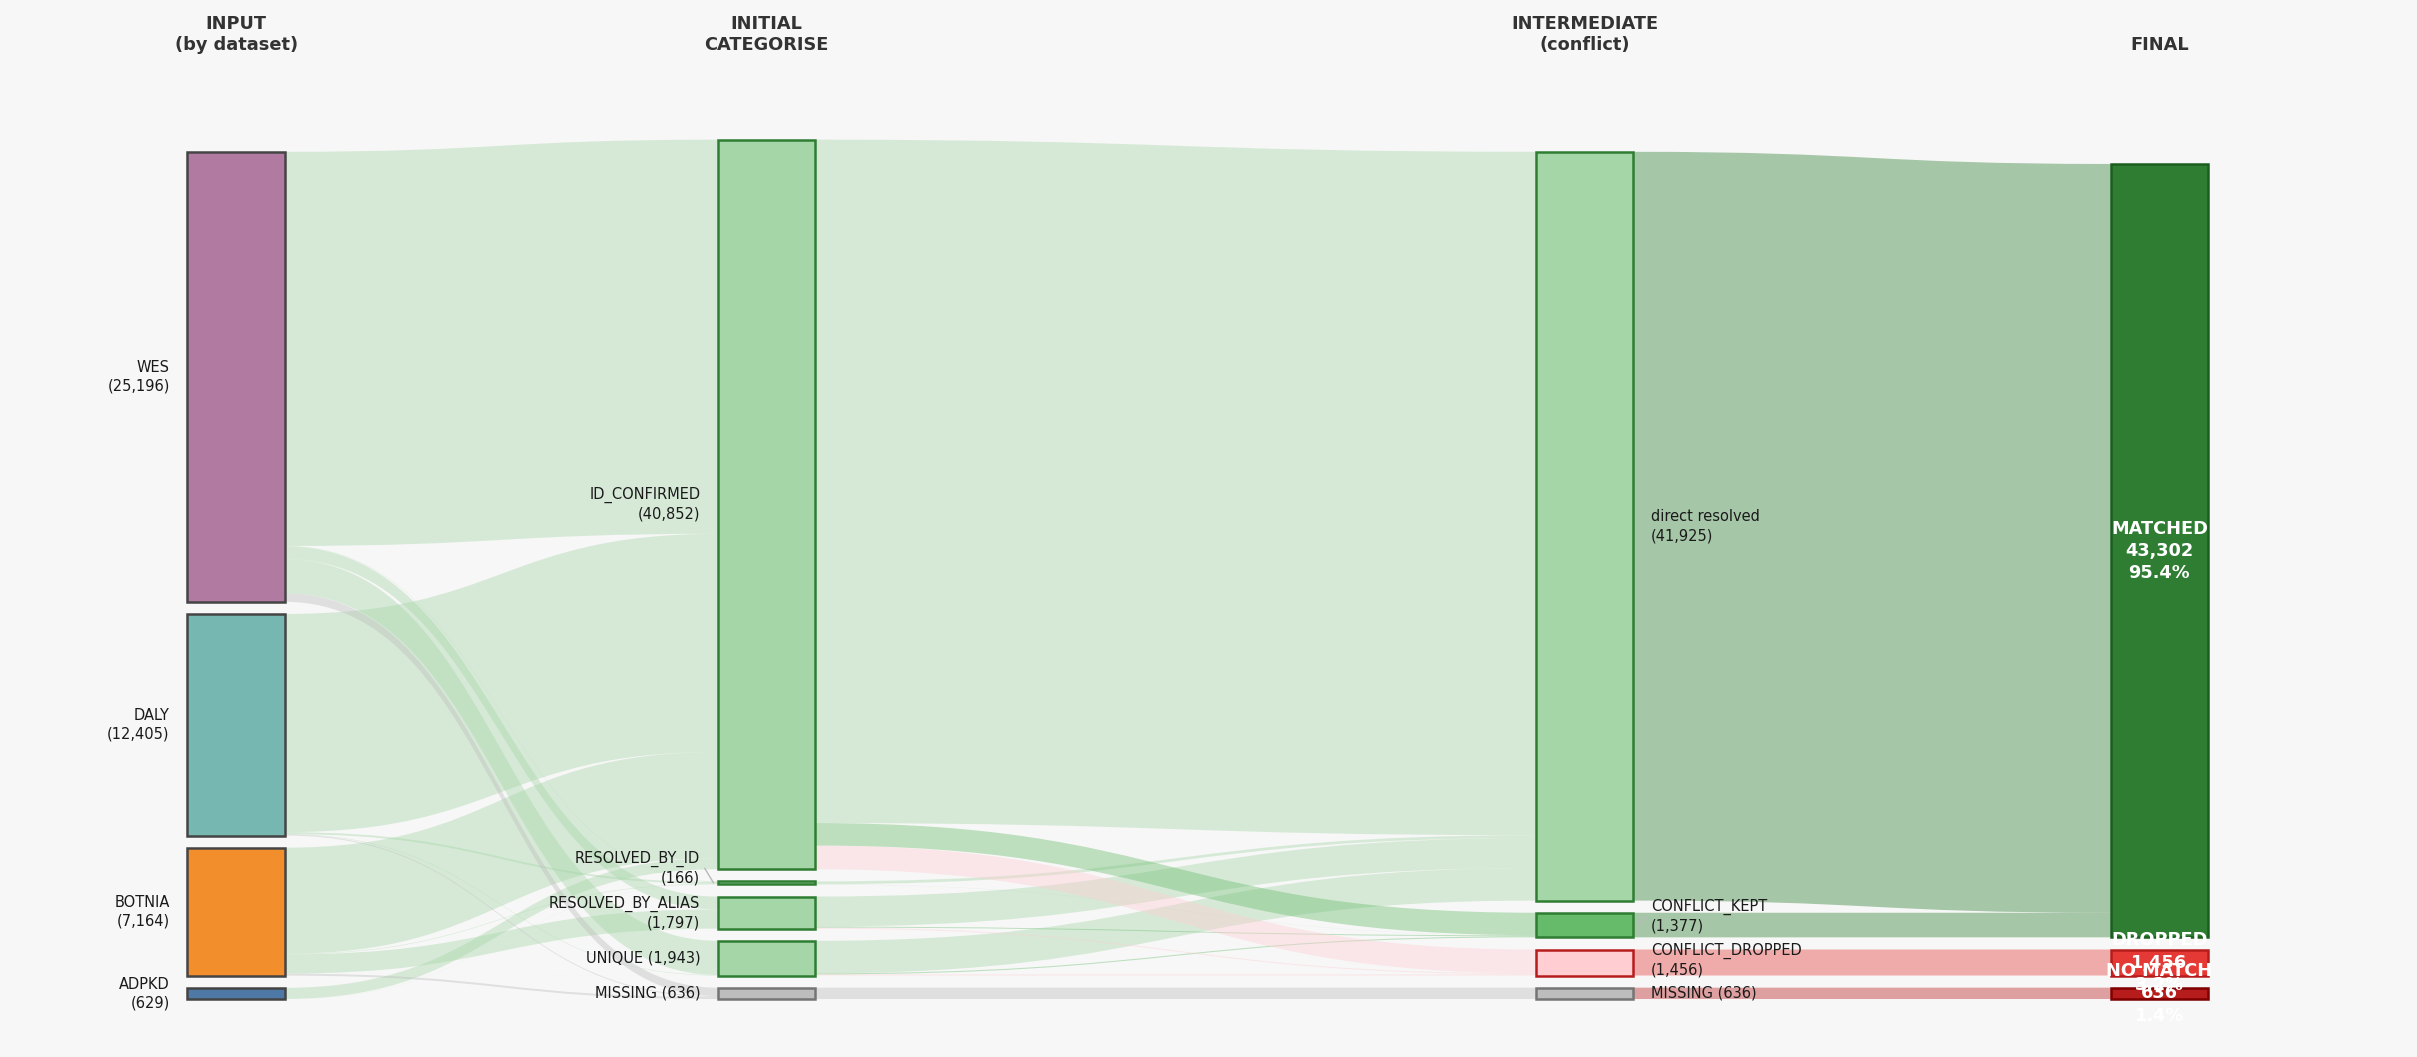
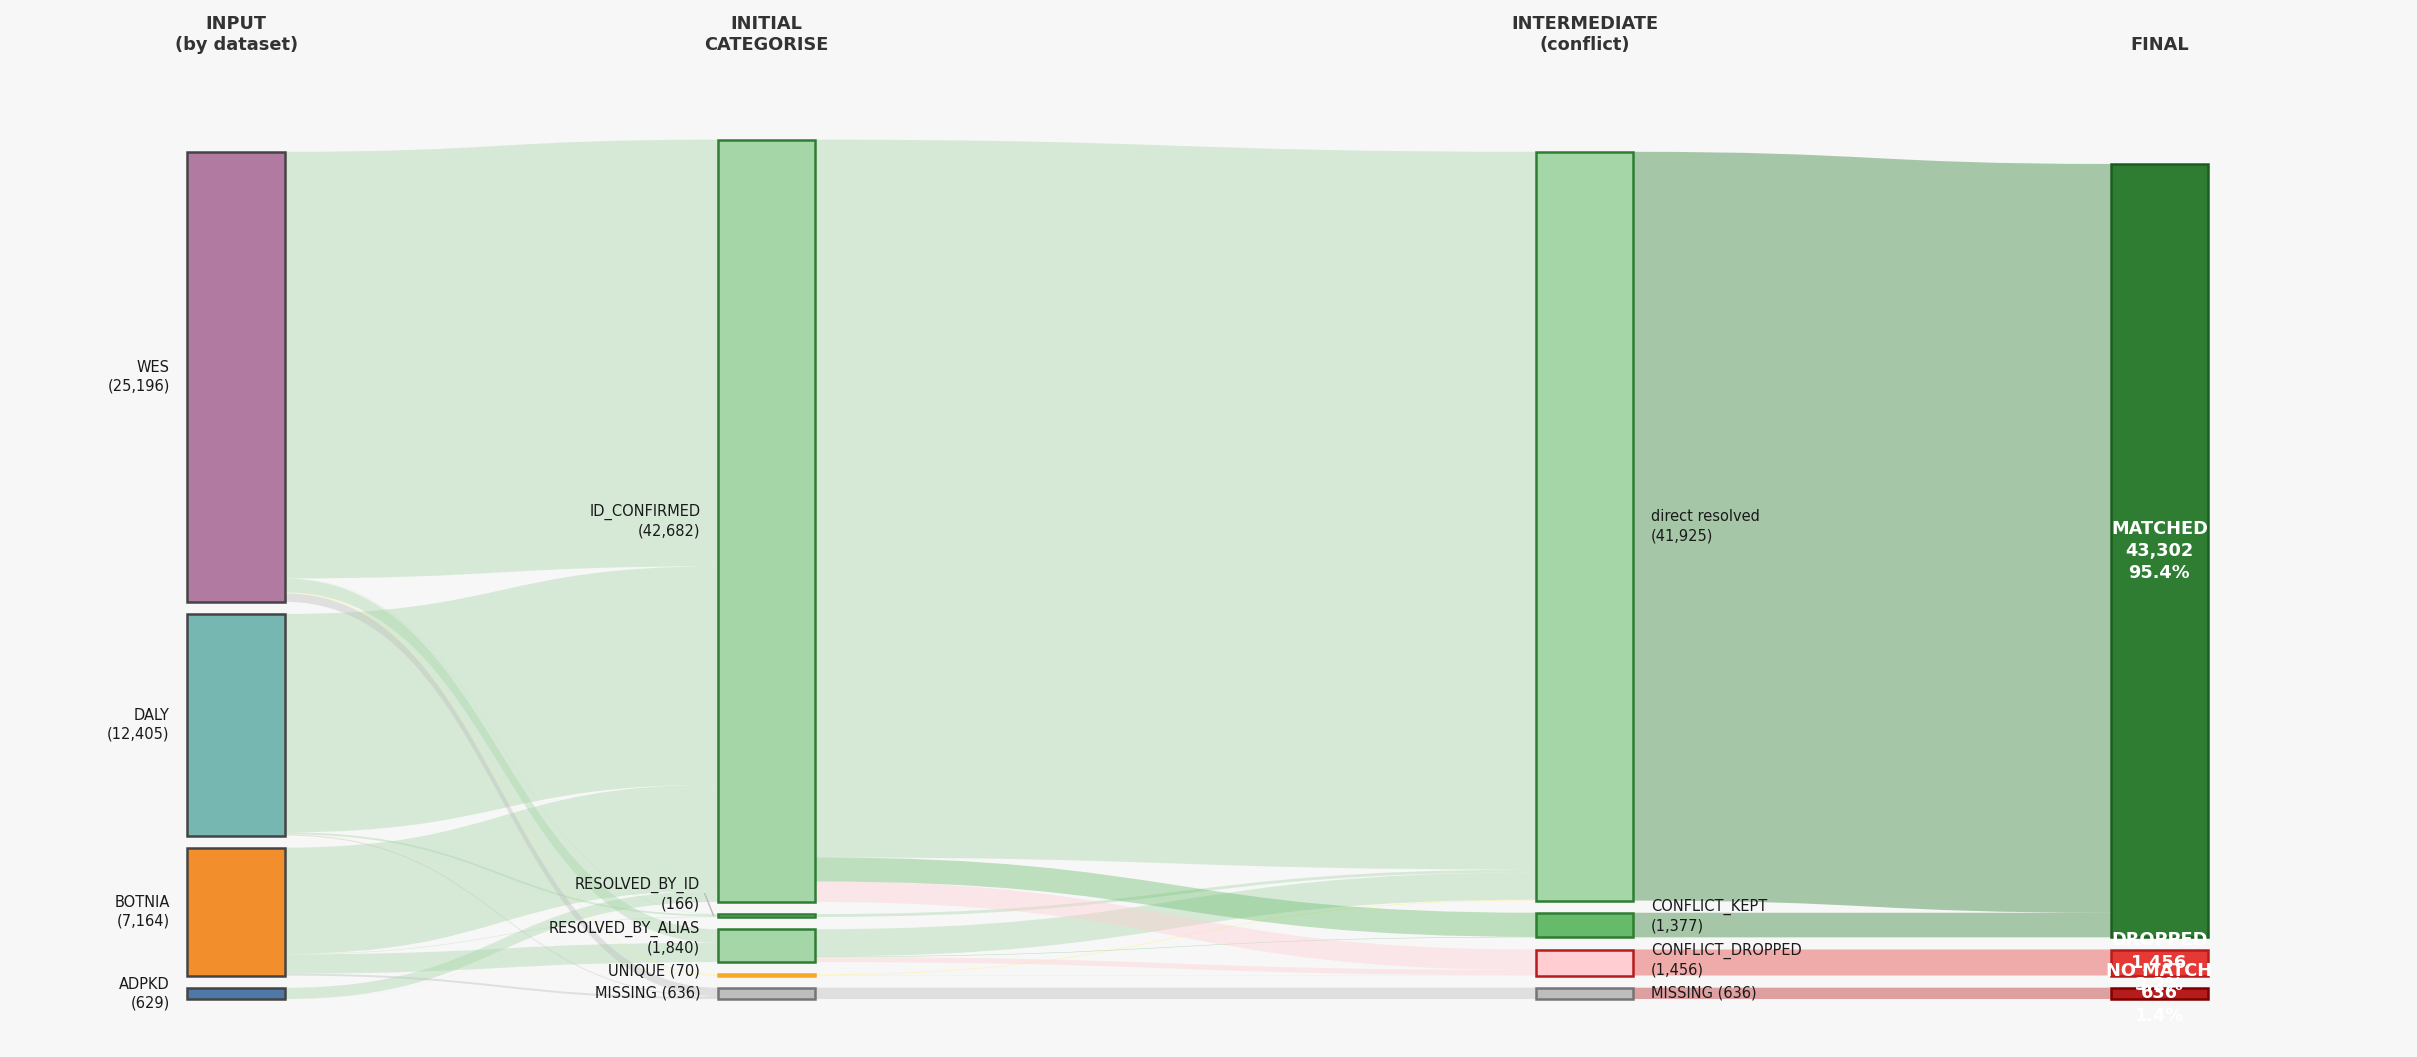
fixed labelling of renaming/mapping

Changed region(s): [[0.1552, 0.7805, 0.5896, 0.9366], [0.1241, 0.4371, 0.3103, 0.5932], [0.1552, 0.7493, 0.2172, 0.8117]]

diff --git a/scripts/resolve_mapping.py b/scripts/resolve_mapping.py
@@ -20,7 +20,7 @@ TEST_ALIASES = TEST_DIR / "aliases.tsv"
 
 RESOLVED = {"ID_CONFIRMED","RESOLVED_BY_ID","RESOLVED_BY_ALIAS","UNIQUE"}
 CONFLICT_PRIORITY = {"ID_CONFIRMED":0,"RESOLVED_BY_ALIAS":1,"RESOLVED_BY_ID":2,"UNIQUE":3}
-DEFAULT_ALIASES = "/mnt/disks/data/samples/exclusions/finngen_R12_duplicate_list.txt"
+DEFAULT_ALIASES = "/mnt/disks/data/samples/exclusions/finngen_R14_duplicate_list.txt"
 
 SUMMARY_GROUPS = [
     ("MATCHED", "samples with a final QRY→REF mapping in the output", [
@@ -68,22 +68,16 @@ def _parse_alias_lines(lines, label=""):
 def _alias_resolve(query, candidates, ag):
     """Return (ref_candidate | None, note).
 
-    Alias handling is intentionally QRY-only: only the QUERY is looked up in
-    the alias file.  REF candidates are never cross-referenced — they are the
-    authoritative identities.  The question asked is purely:
-        'which of these REF candidates is listed as a known alias of this query?'
+    For each REF candidate, check whether the query starts with any member of
+    that candidate's alias group.  This handles ID variants with arbitrary
+    suffixes without assuming a specific suffix format.
     """
-    alias_group = ag.get(query)
-    if alias_group is None:
-        return None, "query_not_in_alias_file"
-
-    # alias_group is the frozenset of all IDs known to be the same person as query
-    m = [c for c in candidates if c in alias_group]  # REF candidates that match
+    m = [c for c in candidates if any(query.startswith(a) for a in ag.get(c, frozenset()))]
 
     if len(m) == 1:
         return m[0], ""
     if len(m) == 0:
-        return None, "no_candidates_in_alias_group"
+        return None, "query_not_in_alias_file"
     return None, f"{len(m)}_candidates_in_alias_group"
 
 
@@ -121,7 +115,7 @@ def initial_categorise(df, ag=None):
             if c and c not in seen: cands.append(c); seen.add(c)
         if len(cands) == 1:
             ref = cands[0]
-            if query == ref:
+            if query.startswith(ref):
                 records.append(_row(dataset, query, ref, raw, "ID_CONFIRMED"))
             elif ag:
                 resolved, _ = _alias_resolve(query, cands, ag)
@@ -155,6 +149,7 @@ def check_surjectivity(result, rng):
             orig = result.at[idx, "STATUS"]
             if idx == winner: result.at[idx, "STATUS"] = f"CONFLICT_KEPT[{orig}]"
             else:             result.at[idx, "STATUS"] = f"CONFLICT_DROPPED[{orig}]"; result.at[idx, "REF_MAPPED"] = "NA"
+    result["STATUS"] = result["STATUS"].apply(lambda s: s if "[" in s else f"{s}[{s}]")
     return result
 
 
@@ -276,7 +271,7 @@ def make_flowchart(df_init, df_final, outpath):
     s1 = _bands(
         ("miss",  c_miss,  C_GR, "#757575", f"MISSING ({c_miss:,})"),
         ("ambig", c_ambig, C_YL, "#f9a825", f"AMBIG_UNRESOLVED\n({c_ambig:,})"),
-        ("uniq",  c_uniq,  C_GL, C_GD,      f"UNIQUE ({c_uniq:,})"),
+        ("uniq",  c_uniq,  C_YL, "#f9a825",  f"UNIQUE ({c_uniq:,})"),
         ("ral",   c_ral,   C_GL, C_GD,      f"RESOLVED_BY_ALIAS\n({c_ral:,})"),
         ("rid",   c_rid,   C_GL, C_GD,      f"RESOLVED_BY_ID\n({c_rid:,})"),
         ("id",    c_id,    C_GL, C_GD,      f"ID_CONFIRMED\n({c_id:,})"),
@@ -313,20 +308,22 @@ def make_flowchart(df_init, df_final, outpath):
             if cnt:
                 flows_01.append((f"ds_{ds}", k, cnt, fc))
 
-    # Direct-resolved bands split proportionally into cdrop / ckept / clean.
-    # Process s1 bands bottom-to-top (uniq → id), within each: cdrop first, clean last.
-    n_dir = c_id + c_rid + c_ral + c_uniq
-    def _dsplit(c):
-        if n_dir == 0 or c == 0: return 0, 0, 0
-        dr = round(c * c_cdrop / n_dir); kp = round(c * c_ckept / n_dir)
-        return dr, kp, max(c - dr - kp, 0)
+    # flows_12: use actual per-source counts from df_final STATUS bracket notation
+    # e.g. CONFLICT_DROPPED[UNIQUE] tells us exactly which s1 band fed each conflict.
+    fvc = df_final["STATUS"].value_counts()
+    S1_INIT = {"id": "ID_CONFIRMED", "rid": "RESOLVED_BY_ID",
+               "ral": "RESOLVED_BY_ALIAS", "uniq": "UNIQUE"}
 
     flows_12 = []
     for k, cnt in [("uniq", c_uniq), ("ral", c_ral), ("rid", c_rid), ("id", c_id)]:
-        dr, kp, cl = _dsplit(cnt)
-        if dr: flows_12.append((k, "cdrop", dr, C_SL))
-        if kp: flows_12.append((k, "ckept", kp, C_GM))
-        if cl: flows_12.append((k, "clean", cl, C_GL))
+        init_pfx = S1_INIT[k]
+        cl_col   = C_YL if k == "uniq" else C_GL
+        dr = sum(v for s, v in fvc.items() if s.startswith("CONFLICT_DROPPED") and f"[{init_pfx}]" in s)
+        kp = sum(v for s, v in fvc.items() if s.startswith("CONFLICT_KEPT")    and f"[{init_pfx}]" in s)
+        cl = cnt - dr - kp
+        if dr:      flows_12.append((k, "cdrop", dr, C_SL))
+        if kp:      flows_12.append((k, "ckept", kp, C_GM))
+        if cl > 0:  flows_12.append((k, "clean", cl, cl_col))
     if c_ambr: flows_12.append(("ambig", "ambr",  c_ambr, C_RL))
     if c_miss: flows_12.append(("miss",  "miss2", c_miss, C_GR))
 
@@ -541,9 +538,11 @@ def main():
         # ── 4. CHECKS ────────────────────────────────────────────────────
         print(f"\n{'── CHECKS ':─<{W}}")
         expected = {
-            "REF001":     ("ID_CONFIRMED",            "REF001"),
-            "QRY001":     ("UNIQUE",                  "REF002"),
-            "QRY_ALIAS":  ("RESOLVED_BY_ALIAS",       "REF_ALIAS_A"),
+            "REF001":         ("ID_CONFIRMED",      "REF001"),
+            "REF010_v2":      ("ID_CONFIRMED",      "REF010"),      # startswith: REF010_v2 → REF010
+            "QRY001":         ("UNIQUE",            "REF002"),
+            "QRY_ALIAS":      ("RESOLVED_BY_ALIAS", "REF_ALIAS_A"),
+            "QRY_ALIAS_B_v2": ("RESOLVED_BY_ALIAS", "REF_ALIAS_B"), # alias via startswith
             "REF_T1":     ("RESOLVED_BY_ID",          "REF_T1"),
             "QRY_T_ALIAS":("RESOLVED_BY_ALIAS",       "REF_T2"),
             "QRY003":     ("AMBIGUOUS_UNRESOLVED",     "AMBIGUOUS"),

diff --git a/test/output.md b/test/output.md
@@ -3,8 +3,10 @@
 | DATASET | QUERY | DUPLICATES |
 | --- | --- | --- |
 | ds1 | REF001 | REF001 |
+| ds1 | REF010_v2 | REF010 |
 | ds1 | QRY001 | REF002 |
 | ds1 | QRY_ALIAS | REF_ALIAS_A |
+| ds1 | QRY_ALIAS_B_v2 | REF_ALIAS_B |
 | ds1 | REF_T1 | REF_T1,REF_T2 |
 | ds1 | QRY_T_ALIAS | REF_T2,REF_T3 |
 | ds2 | QRY003 | REF003,REF004 |
@@ -22,43 +24,48 @@
 | Group |
 | --- |
 | `QRY_ALIAS` ↔ `REF_ALIAS_A` |
+| `QRY_ALIAS_B` ↔ `REF_ALIAS_B` |
 | `QRY_T_ALIAS` ↔ `REF_T2` |
 
 ### Output
 
 | DATASET | QUERY | DUPLICATES | REF_MAPPED | STATUS | ALIAS_NOTE |
 | --- | --- | --- | --- | --- | --- |
-| ds1 | REF001 | REF001 | REF001 | ID_CONFIRMED | — |
-| ds1 | QRY001 | REF002 | REF002 | UNIQUE | — |
-| ds1 | QRY_ALIAS | REF_ALIAS_A | REF_ALIAS_A | RESOLVED_BY_ALIAS | — |
-| ds1 | REF_T1 | REF_T1,REF_T2 | REF_T1 | RESOLVED_BY_ID | — |
-| ds1 | QRY_T_ALIAS | REF_T2,REF_T3 | REF_T2 | RESOLVED_BY_ALIAS | — |
-| ds2 | QRY003 | REF003,REF004 | AMBIGUOUS | AMBIGUOUS_UNRESOLVED | query_not_in_alias_file |
-| ds2 | QRY004 | REF003 | REF003 | UNIQUE | — |
-| ds2 | QRY005 | REF005,REF006 | AMBIGUOUS | AMBIGUOUS_UNRESOLVED | query_not_in_alias_file |
-| ds2 | QRY006 | REF005 | REF005 | UNIQUE | — |
-| ds2 | QRY007 | REF006 | REF006 | UNIQUE | — |
-| ds2 | QRY008 | MISSING | NA | MISSING | — |
+| ds1 | REF001 | REF001 | REF001 | ID_CONFIRMED[ID_CONFIRMED] | — |
+| ds1 | REF010_v2 | REF010 | REF010 | ID_CONFIRMED[ID_CONFIRMED] | — |
+| ds1 | QRY001 | REF002 | REF002 | UNIQUE[UNIQUE] | — |
+| ds1 | QRY_ALIAS | REF_ALIAS_A | REF_ALIAS_A | RESOLVED_BY_ALIAS[RESOLVED_BY_ALIAS] | — |
+| ds1 | QRY_ALIAS_B_v2 | REF_ALIAS_B | REF_ALIAS_B | RESOLVED_BY_ALIAS[RESOLVED_BY_ALIAS] | — |
+| ds1 | REF_T1 | REF_T1,REF_T2 | REF_T1 | RESOLVED_BY_ID[RESOLVED_BY_ID] | — |
+| ds1 | QRY_T_ALIAS | REF_T2,REF_T3 | REF_T2 | RESOLVED_BY_ALIAS[RESOLVED_BY_ALIAS] | — |
+| ds2 | QRY003 | REF003,REF004 | AMBIGUOUS | AMBIGUOUS_UNRESOLVED[AMBIGUOUS_UNRESOLVED] | query_not_in_alias_file |
+| ds2 | QRY004 | REF003 | REF003 | UNIQUE[UNIQUE] | — |
+| ds2 | QRY005 | REF005,REF006 | AMBIGUOUS | AMBIGUOUS_UNRESOLVED[AMBIGUOUS_UNRESOLVED] | query_not_in_alias_file |
+| ds2 | QRY006 | REF005 | REF005 | UNIQUE[UNIQUE] | — |
+| ds2 | QRY007 | REF006 | REF006 | UNIQUE[UNIQUE] | — |
+| ds2 | QRY008 | MISSING | NA | MISSING[MISSING] | — |
 | ds2 | QRY009 | REF007 | REF007 | CONFLICT_KEPT[UNIQUE] | — |
 | ds2 | QRY010 | REF007 | NA | CONFLICT_DROPPED[UNIQUE] | — |
-| ds2 | QRY011 | REF008,REF009 | AMBIGUOUS | AMBIGUOUS_UNRESOLVED | query_not_in_alias_file |
+| ds2 | QRY011 | REF008,REF009 | AMBIGUOUS | AMBIGUOUS_UNRESOLVED[AMBIGUOUS_UNRESOLVED] | query_not_in_alias_file |
 
 ### Checks
 
 | QUERY | STATUS | REF_MAPPED |  |
 | --- | --- | --- | --- |
-| REF001 | ID_CONFIRMED | REF001 | ✓ |
-| QRY001 | UNIQUE | REF002 | ✓ |
-| QRY_ALIAS | RESOLVED_BY_ALIAS | REF_ALIAS_A | ✓ |
-| REF_T1 | RESOLVED_BY_ID | REF_T1 | ✓ |
-| QRY_T_ALIAS | RESOLVED_BY_ALIAS | REF_T2 | ✓ |
-| QRY003 | AMBIGUOUS_UNRESOLVED | AMBIGUOUS | ✓ |
-| QRY004 | UNIQUE | REF003 | ✓ |
-| QRY005 | AMBIGUOUS_UNRESOLVED | AMBIGUOUS | ✓ |
-| QRY006 | UNIQUE | REF005 | ✓ |
-| QRY007 | UNIQUE | REF006 | ✓ |
-| QRY008 | MISSING | NA | ✓ |
-| QRY011 | AMBIGUOUS_UNRESOLVED | AMBIGUOUS | ✓ |
+| REF001 | ID_CONFIRMED[ID_CONFIRMED] | REF001 | ✓ |
+| REF010_v2 | ID_CONFIRMED[ID_CONFIRMED] | REF010 | ✓ |
+| QRY001 | UNIQUE[UNIQUE] | REF002 | ✓ |
+| QRY_ALIAS | RESOLVED_BY_ALIAS[RESOLVED_BY_ALIAS] | REF_ALIAS_A | ✓ |
+| QRY_ALIAS_B_v2 | RESOLVED_BY_ALIAS[RESOLVED_BY_ALIAS] | REF_ALIAS_B | ✓ |
+| REF_T1 | RESOLVED_BY_ID[RESOLVED_BY_ID] | REF_T1 | ✓ |
+| QRY_T_ALIAS | RESOLVED_BY_ALIAS[RESOLVED_BY_ALIAS] | REF_T2 | ✓ |
+| QRY003 | AMBIGUOUS_UNRESOLVED[AMBIGUOUS_UNRESOLVED] | AMBIGUOUS | ✓ |
+| QRY004 | UNIQUE[UNIQUE] | REF003 | ✓ |
+| QRY005 | AMBIGUOUS_UNRESOLVED[AMBIGUOUS_UNRESOLVED] | AMBIGUOUS | ✓ |
+| QRY006 | UNIQUE[UNIQUE] | REF005 | ✓ |
+| QRY007 | UNIQUE[UNIQUE] | REF006 | ✓ |
+| QRY008 | MISSING[MISSING] | NA | ✓ |
+| QRY011 | AMBIGUOUS_UNRESOLVED[AMBIGUOUS_UNRESOLVED] | AMBIGUOUS | ✓ |
 | QRY009+QRY010 | 1×CONFLICT_KEPT + 1×CONFLICT_DROPPED | — | ✓ |
 
-**13/13 checks — all passed**
+**15/15 checks — all passed**

diff --git a/README.md b/README.md
@@ -143,7 +143,7 @@ Handles two real-world complications: twins in the reference (one query matches 
 **Two passes:**
 
 1. **Categorise** — each row classified independently:
-   - Single candidate, IDs match → `ID_CONFIRMED` (genetic + ID agreement, strongest evidence)
+   - Single candidate, query ID starts with the ref ID → `ID_CONFIRMED` (genetic + ID agreement, strongest evidence); handles exact matches and suffix variants (e.g. `FGXXXXX_dup1` → ref `FGXXXXX`) without assuming a specific suffix format
    - Single candidate, IDs differ → `UNIQUE` (genetics only, the normal case)
    - Multiple candidates, query ID is one of them → `RESOLVED_BY_ID` (twins in ref; ID identifies the right one)
    - Multiple candidates, query is a known alias of one candidate → `RESOLVED_BY_ALIAS`
@@ -159,7 +159,7 @@ Handles two real-world complications: twins in the reference (one query matches 
 | **DROPPED** | `CONFLICT_DROPPED[...]`, `AMBIGUOUS_UNRESOLVED` | Found by KING but excluded from final mapping |
 | **NO MATCH** | `MISSING` | No KING match found |
 
-**Alias handling** — an optional tab-delimited file maps QRY IDs that are known aliases of REF IDs (one alias group per line, REF ID first). This is used solely to resolve QRY-side ambiguity: only the query is looked up in the alias file; REF candidates are treated as ground truth and never cross-referenced. A query in the alias file whose single candidate is listed as its alias → `RESOLVED_BY_ALIAS`; a query with multiple candidates where exactly one is in the query's alias group → also `RESOLVED_BY_ALIAS`. Alias IDs cannot appear in `REF_MAPPED`; a post-processing check enforces this.
+**Alias handling** — an optional tab-delimited file lists known alias groups (one group per line, space/tab-separated). For each REF candidate, the script checks whether the query starts with any member of that candidate's alias group. This naturally handles suffix variants (e.g. `FGXXXXX_dup1`) without requiring them to be registered in the alias file. A single matching candidate → `RESOLVED_BY_ALIAS`; multiple matching candidates → `AMBIGUOUS_UNRESOLVED`. Alias IDs cannot appear in `REF_MAPPED`; a post-processing check enforces this.
 
 **Test mode** — a self-contained test dataset covering every status category can be run without any input files:
 

diff --git a/data/FG_EXOME_resolved_stats.md b/data/FG_EXOME_resolved_stats.md
@@ -2,8 +2,8 @@
 
 | GROUP | TOTAL | ADPKD | BOTNIA | DALY | WES | PCT | NOTES |
 | --- | --- | --- | --- | --- | --- | --- | --- |
-| MATCHED | 43302 | 619 | 7031 | 12234 | 23418 | 95.4% | samples with a final QRY→REF mapping in the output |
-| DROPPED | 1456 | 10 | 22 | 118 | 1306 | 3.2% | found by KING but excluded from final mapping |
+| MATCHED | 43302 | 619 | 7031 | 12233 | 23419 | 95.4% | samples with a final QRY→REF mapping in the output |
+| DROPPED | 1456 | 10 | 22 | 119 | 1305 | 3.2% | found by KING but excluded from final mapping |
 | NO MATCH | 636 | 0 | 111 | 53 | 472 | 1.4% | absent from ref or below KING concordance threshold |
 | TOTAL | 45394 | 629 | 7164 | 12405 | 25196 | 100.0% |  |
 
@@ -11,10 +11,10 @@
 
 | GROUP | STATUS | TOTAL | ADPKD | BOTNIA | DALY | WES | PCT | NOTES |
 | --- | --- | --- | --- | --- | --- | --- | --- | --- |
-| MATCHED | ID_CONFIRMED | 40178 | 601 | 5937 | 11816 | 21824 | 88.5% | single candidate; KING match confirmed by matching IDs |
+| MATCHED | ID_CONFIRMED | 40189 | 601 | 5937 | 11816 | 21835 | 88.5% | single candidate; KING match confirmed by matching IDs |
 | MATCHED | RESOLVED_BY_ID | 160 | 6 | 31 | 102 | 21 | 0.4% | twins in ref; query ID matched one candidate |
-| MATCHED | RESOLVED_BY_ALIAS | 1523 | 0 | 1054 | 0 | 469 | 3.4% | twins in ref; candidates are known aliases of each other |
-| MATCHED | UNIQUE | 64 | 0 | 2 | 11 | 51 | 0.1% | single candidate; matched by genetics only |
-| MATCHED | CONFLICT_KEPT | 1377 | 12 | 7 | 305 | 1053 | 3.0% | contested ref ID; kept after priority tiebreak; 1377 ref IDs contested, avg 31.4 queries/ref |
-| DROPPED | CONFLICT_DROPPED | 1456 | 10 | 22 | 118 | 1306 | 3.2% | contested ref ID; lost tiebreak; REF_MAPPED = NA |
+| MATCHED | RESOLVED_BY_ALIAS | 1524 | 0 | 1054 | 0 | 470 | 3.4% | twins in ref; candidates are known aliases of each other |
+| MATCHED | UNIQUE | 52 | 0 | 2 | 11 | 39 | 0.1% | single candidate; matched by genetics only |
+| MATCHED | CONFLICT_KEPT | 1377 | 12 | 7 | 304 | 1054 | 3.0% | contested ref ID; kept after priority tiebreak; 1377 ref IDs contested, avg 31.4 queries/ref |
+| DROPPED | CONFLICT_DROPPED | 1456 | 10 | 22 | 119 | 1305 | 3.2% | contested ref ID; lost tiebreak; REF_MAPPED = NA |
 | NO MATCH | MISSING | 636 | 0 | 111 | 53 | 472 | 1.4% | no KING match found |
